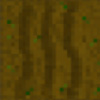
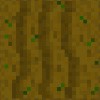
beta

diff --git a/movimiento.cpp b/movimiento.cpp
@@ -12,7 +12,7 @@ SpriteArray::SpriteArray(){
 }
 
 //constructor argumento
-SpriteArray::SpriteArray(SpriteArray &_escena){
+SpriteArray::SpriteArray(const SpriteArray &_escena){
 	size=_escena.getSize();
 	escena=new AutoSprite[size];
 	for(int i=0;i<size;i++)
@@ -27,7 +27,8 @@ SpriteArray::~SpriteArray(){
 // redimensionar
 void SpriteArray::redimensionar(const int _size){
 		AutoSprite *temp=new AutoSprite[_size];
-		for(int i=0;i<size;i++)
+		int minsize=(_size>size)?size:size;
+		for(int i=0;i<minsize;i++)
 			temp[i]=escena[i];
 		delete[] escena;
 		escena=temp;
@@ -71,6 +72,15 @@ void SpriteArray::mostrar(sf::RenderWindow &a){
 	a.display();
 }
 
+bool SpriteArray::checkPosition(int x1,int x2,int y1,int y2){
+	if(escena[size-1].getPosicionX()>x1&&
+	   escena[size-1].getPosicionX()<x2&&
+	   escena[size-1].getPosicionY()>y1&&
+	   escena[size-1].getPosicionY()<y2)
+		return true;
+	return false;
+}
+
 //size
 int SpriteArray::getSize()const {
 	return size;
@@ -96,7 +106,7 @@ bool Escena::upcolision(AutoSprite a,int cantidad){
 		int aux2=escena[j].getPosicionY()+escena[j].getTamanioY();
 		int aux3=a.getPosicionY()+a.getTamanioY();
 		int aux4=escena[j].getTamanioY()+escena[j].getPosicionY();
-		if(x>0&&aux1<=aux2&&aux3>aux4||a.getPosicionY()<escena[0].getPosicionY())
+		if(x>0&&aux1<=aux2&&aux3>aux4||a.getPosicionY()<=escena[0].getPosicionY())
 			return false;
 	}
 	return true;
@@ -116,7 +126,7 @@ bool Escena::downcolision(AutoSprite a,int cantidad){
 		int aux2=escena[j].getPosicionY();
 		int aux3=a.getPosicionY();
 		int aux4=escena[j].getPosicionY();
-		if(x>0&&aux1>=aux2&&aux3<aux4||a.getPosicionY()+a.getTamanioX()>escena[0].getPosicionY()+escena[0].getTamanioY())
+		if(x>0&&aux1>=aux2&&aux3<aux4||a.getPosicionY()+a.getTamanioY()>escena[0].getPosicionY()+escena[0].getTamanioY())
 			return false;				
 	}
 	return true;
@@ -245,7 +255,7 @@ EscenarioPrincipal::EscenarioPrincipal() : Escena(){
 	casaex.setImagen("img/casaex.jpg");
 	tierra.setImagen("img/0dtierra.jpg");
 	fondo.escalar(1200,1200);
-	persona.escalar(100,100);
+	persona.escalar(50,100);
     persona.ajustarPosicion(600,200);
     casaex.ajustarPosicion(700,0);
     casaex.escalar(500,300);
@@ -262,36 +272,60 @@ EscenarioPrincipal::EscenarioPrincipal() : Escena(){
 
 //interaccion del terreno
 void EscenarioPrincipal::changeTerreno(std::string img){
+	std::string posimg;
 	int pos=0;
 	for(int i=0;i<6;i++){
 		for(int j=0;j<6;j++){
 			pos++;
-			if(img=="img/regadera.png")
-				if(checkPosition(i,j)){
-					std::cout<<"entra"<<pos+1<<std::endl;
+			posimg=escena[pos+1].getImagen();
+			if(img=="img/pala.png"&&posimg[4]=='0')
+				if(checkTerreno(i,j))
 					escena[1+pos].setImagen("img/1dtierra.jpg");
-				}
-		}			
+			if(img=="img/regadera.png"&&posimg[4]=='1')
+				if(checkTerreno(i,j))
+					escena[1+pos].setImagen("img/2dtierra.jpg");
+			if(img=="img/combo.png"&&(posimg[4]=='1'||posimg[4]=='2'))
+				if(checkTerreno(i,j))
+					escena[1+pos].setImagen("img/0dtierra.jpg");
+		}
 	}
 }
-bool EscenarioPrincipal::checkPosition(float i,float j){
+bool EscenarioPrincipal::checkTerreno(float i,float j){
 	std::string direccion=escena[size-1].getImagen();
-	int par1=50;
-	int par2=110;
-	int par3=575;
-	int par4=675;
+	int x1=50;
+	int x2=110;
+	int y1=550;
+	int y2=610;
+	std::string direcciones="lrud";
 	for(int m=0;m<4;m++){
+		char dactual=direcciones[m];
 		if(m==1){
-			par1=-90;
-			par2=-60;
+			x1=-90;x2=-50;
 		}
-		if(escena[size-1].getPosicionX()>j*100+par1&&
-	   	   escena[size-1].getPosicionX()<j*100+par2&&
-	   	   escena[size-1].getPosicionY()>par3+i*100&&
-	 	   escena[size-1].getPosicionY()<par4+i*100)
-	  	 	return true;
+		if(m==2){
+			x1=0;x2=50;y1=650;y2=700;
+		}
+		if(m==3){
+			y1=500;y2=550;
+		}
+		if(checkPosition(j*100+x1,j*100+x2,y1+i*100,y2+i*100)&&
+		   dactual==direccion[5])
+	  		return true;
 	}
 	return false;
+}
+
+void EscenarioPrincipal::nextDay(){
+	std::string posimg;
+	int pos=0;
+	for(int i=0;i<6;i++){
+		for(int j=0;j<6;j++){
+			pos++;
+			posimg=escena[pos+1].getImagen();
+			if(posimg=="img/2dtierra.jpg")
+				escena[pos+1].setImagen("img/1dtierra.jpg");
+		}
+	}
 }
 //------------------------------------------------------CLASS MENU
 

diff --git a/main.cpp b/main.cpp
@@ -3,7 +3,7 @@
 using namespace sf;
 //crea intervalo de tiempo de aprox 1 seg
 void wait(){
-	int i=clock()+100;
+	int i=clock()+150;
 	while(i>clock()){}
 }
 
@@ -11,7 +11,7 @@ void wait(){
 int main(){
     RenderWindow juego(VideoMode(800,600),"Litle Farm");
     sf::View view(sf::Vector2f(400.f, 300.f), sf::Vector2f(800.f,600.f));
-
+	juego.setFramerateLimit(60);
 	//juego escenario1    
     EscenarioPrincipal escenario1;
     
@@ -80,11 +80,13 @@ int main(){
 				if(Keyboard::isKeyPressed(Keyboard::C))
 					escenario1.changeTerreno(inventario.getselect());
 				
-				if(escenario1.escena[escenario1.getSize()-1].getPosicionY()==300&&Keyboard::isKeyPressed(Keyboard::X))
+				if(escenario1.checkPosition(895,920,285,310)&&Keyboard::isKeyPressed(Keyboard::X))
 					escenario=2;
 				inventario.mostrarinventario(escenario,escenariotemp);
 				if(Keyboard::isKeyPressed(Keyboard::T))
 					escenario=4;
+				if(Keyboard::isKeyPressed(Keyboard::N))
+					escenario1.nextDay();
 				break;
 			}
 			case(2):{ // casa

diff --git a/movimiento.h b/movimiento.h
@@ -16,7 +16,7 @@ class SpriteArray{
 		
 		//constructores
 		SpriteArray();
-		SpriteArray(SpriteArray&);
+		SpriteArray(const SpriteArray&);
 		~SpriteArray();
 	
 		
@@ -26,6 +26,7 @@ class SpriteArray{
 		virtual void mostrar(sf::RenderWindow &);
 		void setview(sf::RenderWindow&,int);
 		virtual void mover(int,int,int)=0;
+		bool checkPosition(int,int,int,int);
 
 		int getSize() const ;
 };
@@ -47,10 +48,11 @@ class EscenarioPrincipal : public Escena{
 		AutoSprite persona;
 		AutoSprite casaex;
 		AutoSprite tierra;
-		bool checkPosition(float,float);
+		bool checkTerreno(float,float);
 		public:
 			EscenarioPrincipal();
 			void changeTerreno(std::string);
+			void nextDay();
 			
 };
 
